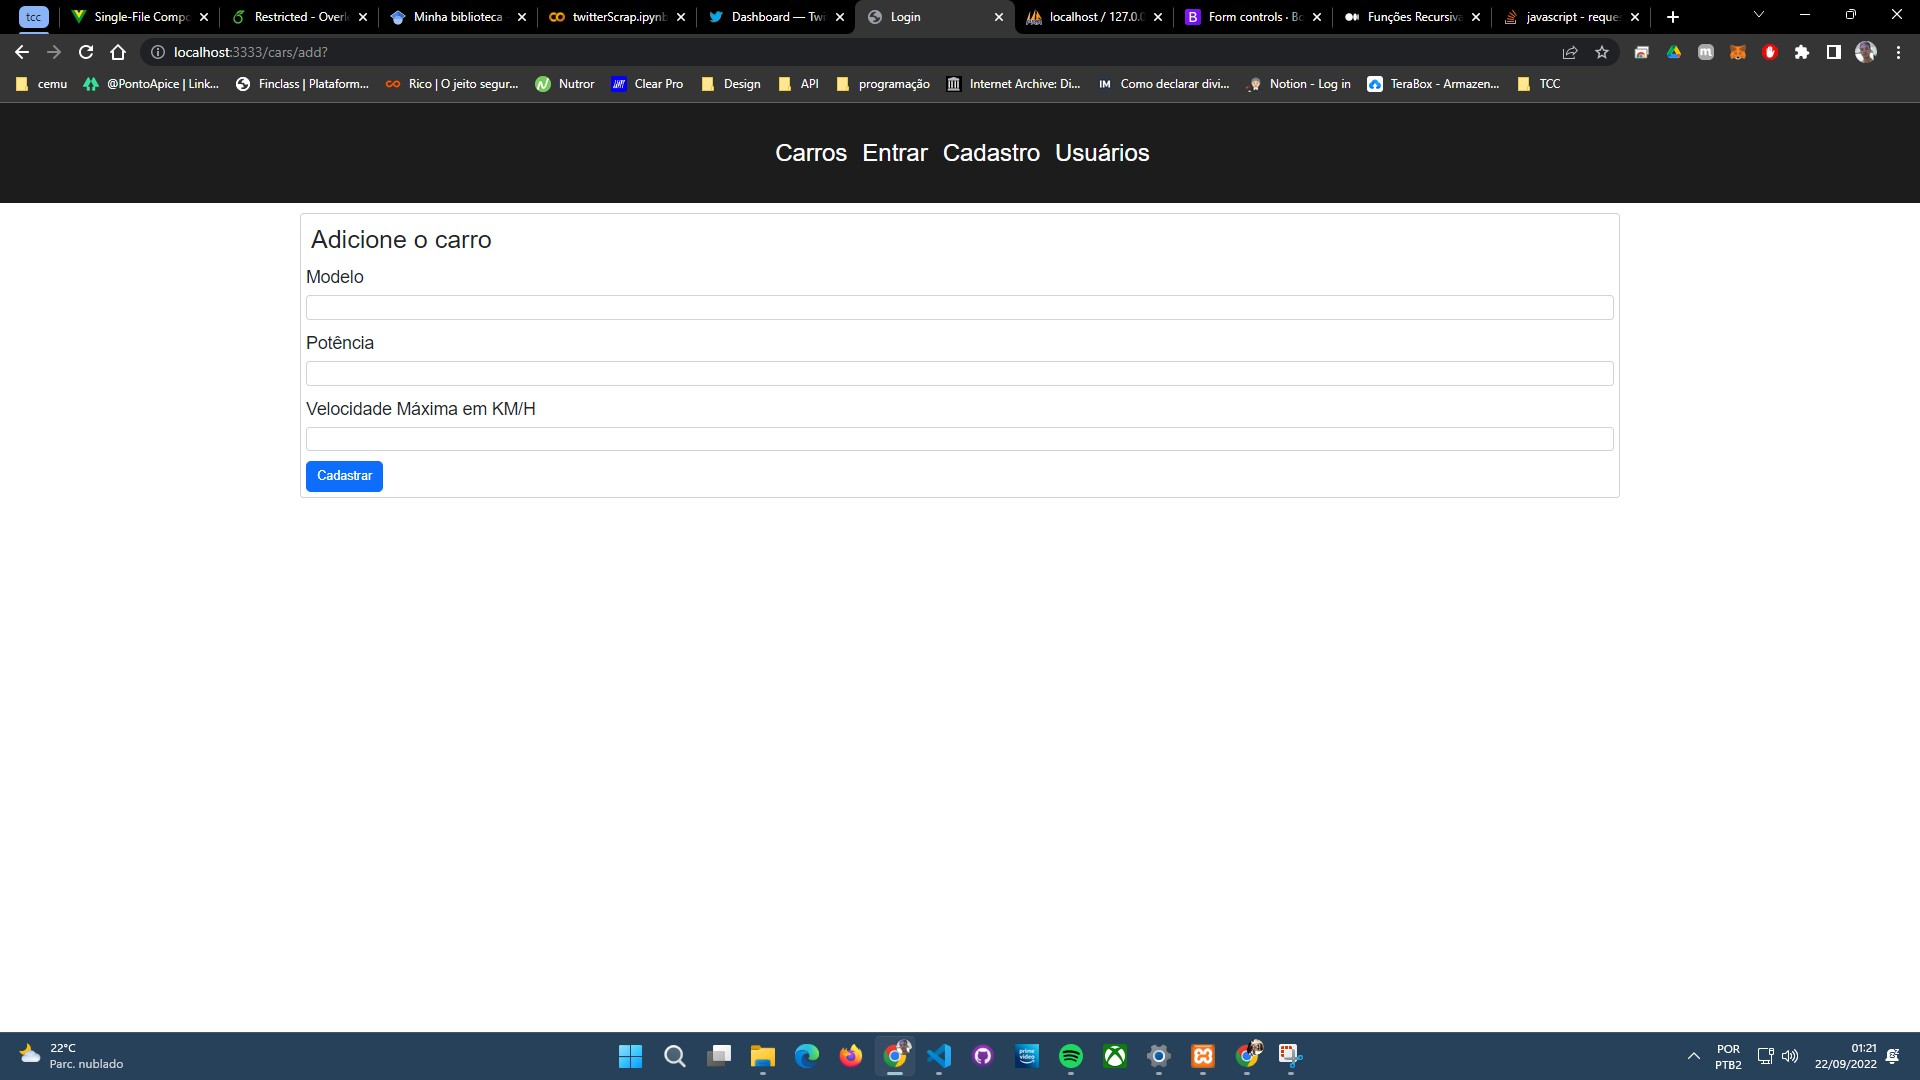
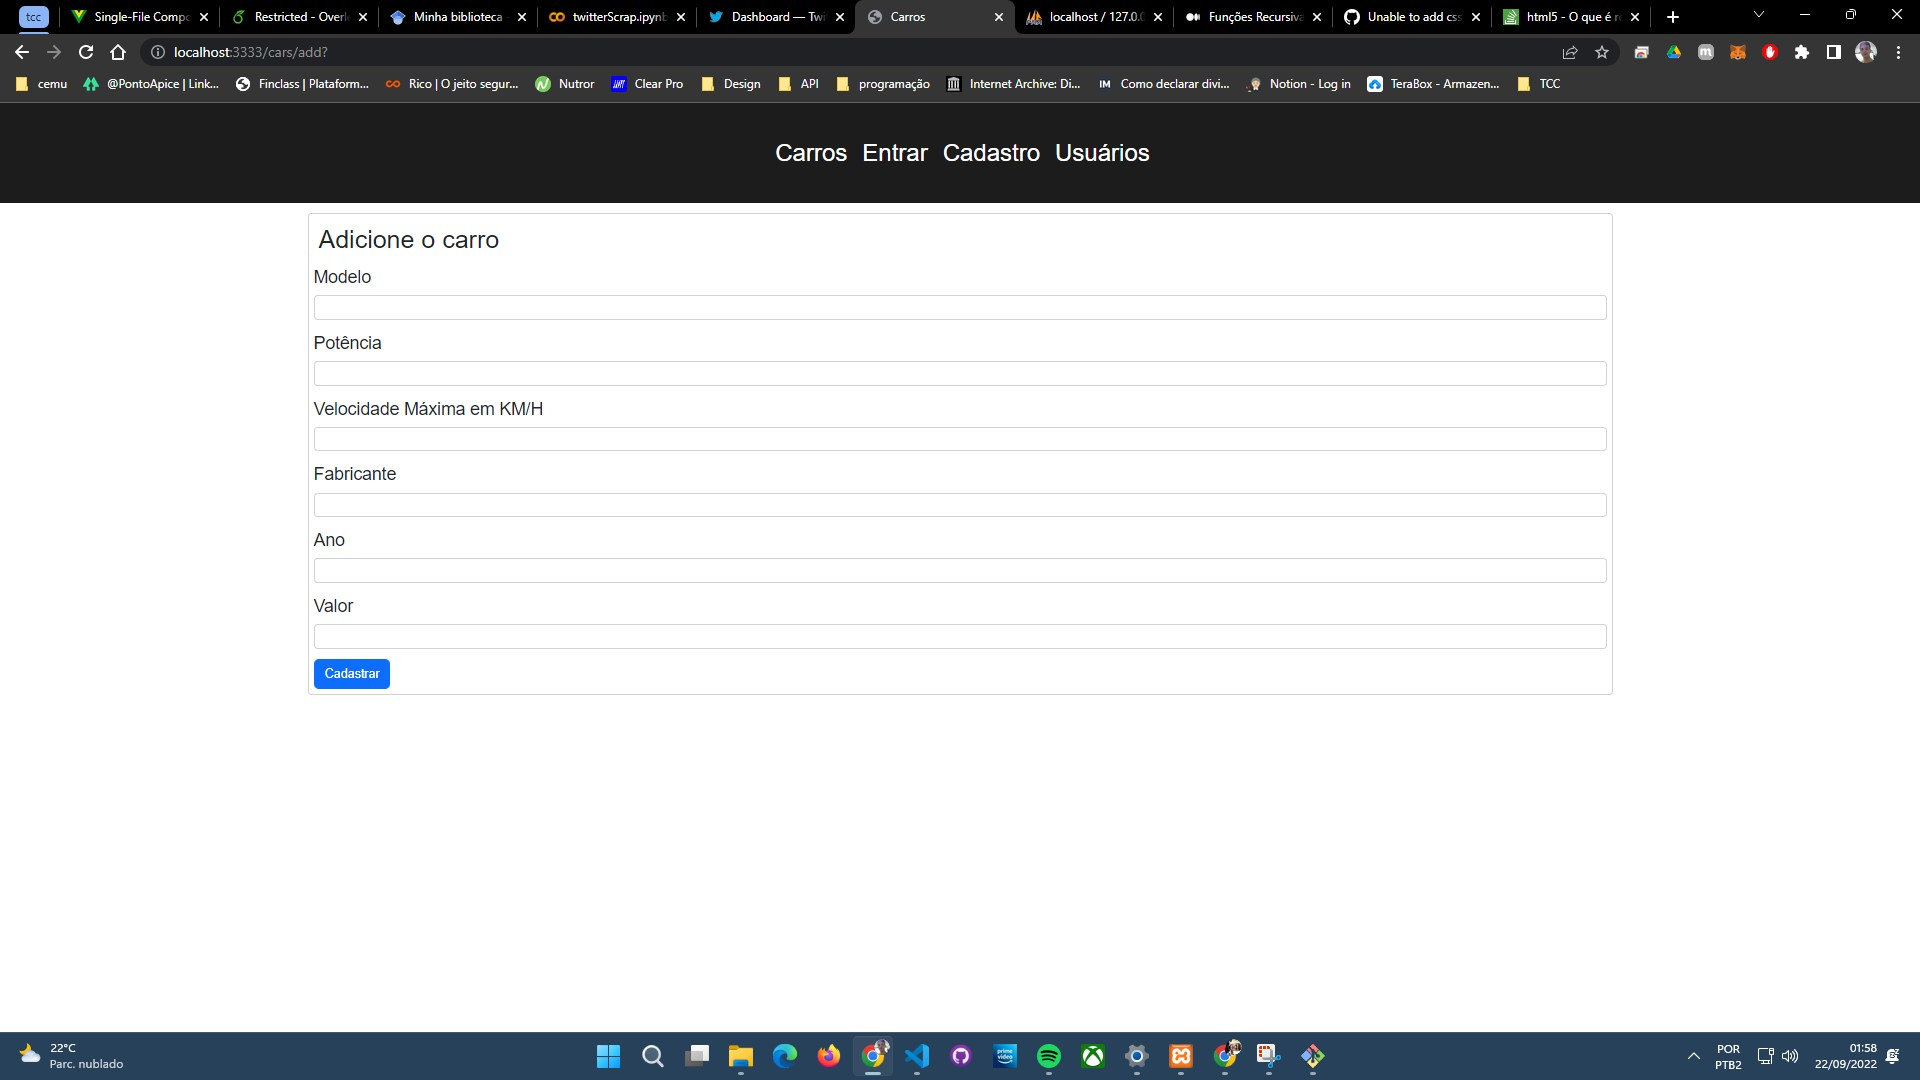
correção dos dados

diff --git a/src/controllers/CarController.js b/src/controllers/CarController.js
@@ -6,7 +6,10 @@ module.exports = class CarController {
     const carForm = {
       model: req.body.model,
       potencia: req.body.potencia,
-      velMax: req.body.velMax
+      velMax: req.body.velMax,
+      fabricante: req.body.fabricante,
+      ano: req.body.ano,
+      valor: req.body.valor
     }
     console.log(carForm)
 
@@ -58,13 +61,17 @@ module.exports = class CarController {
     const carForm = {
       model: req.body.model,
       potencia: req.body.potencia,
-      velMax: req.body.velMax
+      velMax: req.body.velMax,
+      fabricante: req.body.fabricante,
+      ano: req.body.ano,
+      valor: req.body.valor
+      
     }
     console.log(carForm)
 
     await Car.update(carForm, { where: { id: id } })
       .then(result => {
-        console.log('criado com sucesso')
+        console.log('atualizado com sucesso')
         res.redirect('/cars/all')
       })
       .catch(err => {

diff --git a/src/models/Car.js b/src/models/Car.js
@@ -29,6 +29,27 @@ const Car = db.define('cars', {
     notEmpty: {
       msg: 'velocidade maxima nao pode ser em branco'
     }
+  },
+  fabricante: {
+    type: Sequelize.STRING,
+    allowNull: false,
+    notEmpty: {
+      msg: 'password nao pode ser em branco'
+    }
+  },
+  ano: {
+    type: Sequelize.STRING,
+    allowNull: false,
+    notEmpty: {
+      msg: 'password nao pode ser em branco'
+    }
+  },
+  valor: {
+    type: Sequelize.STRING,
+    allowNull: false,
+    notEmpty: {
+      msg: 'password nao pode ser em branco'
+    }
   }
 })
 
